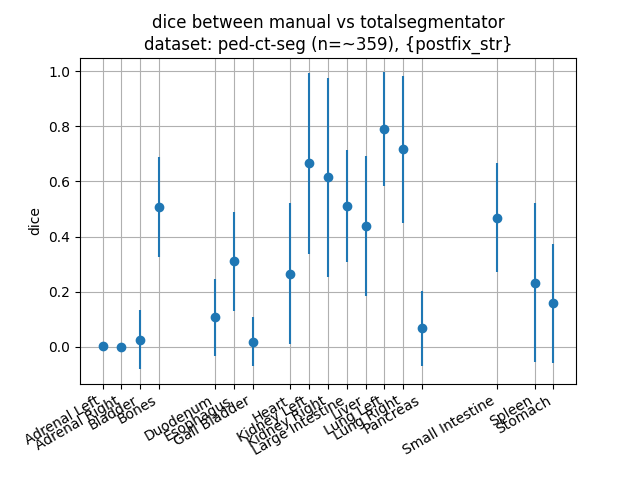
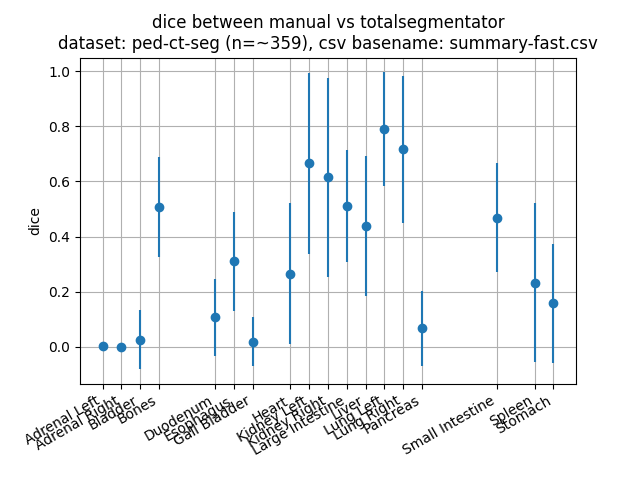
added -fast flag

Changed region(s): [[0.0938, 0.0625, 0.9375, 0.125]]

diff --git a/assess/ped-ct-seg/gen_args.py b/assess/ped-ct-seg/gen_args.py
@@ -42,7 +42,7 @@ with open('process.args','w') as f:
         f.write(myline)
 
 with open('aggregate.args','w') as f:
-    myline = f"{root_folder} {csv_folder}\n"
+    myline = f"{root_folder} {csv_folder} -p fast\n"
     f.write(myline)
 
 """
